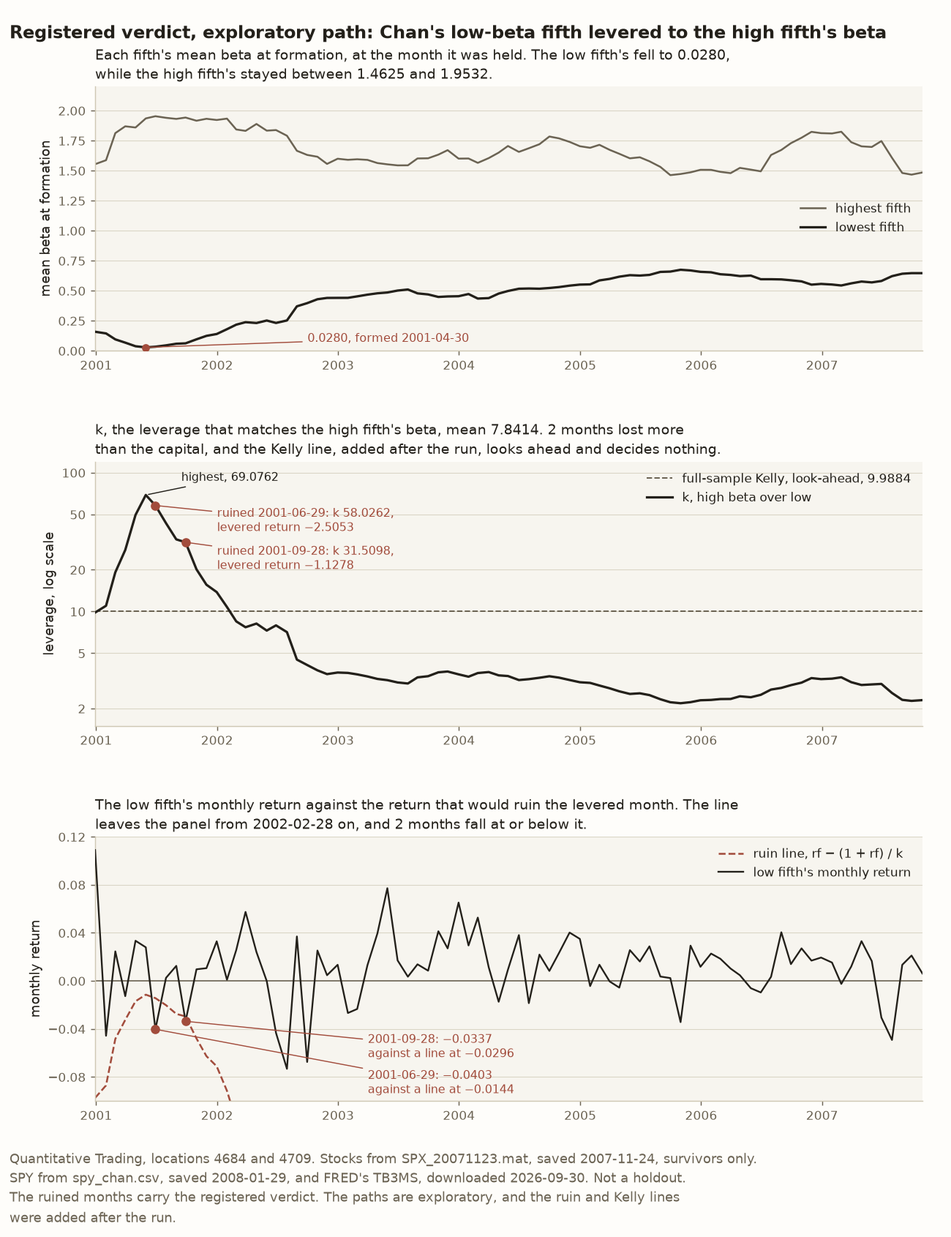
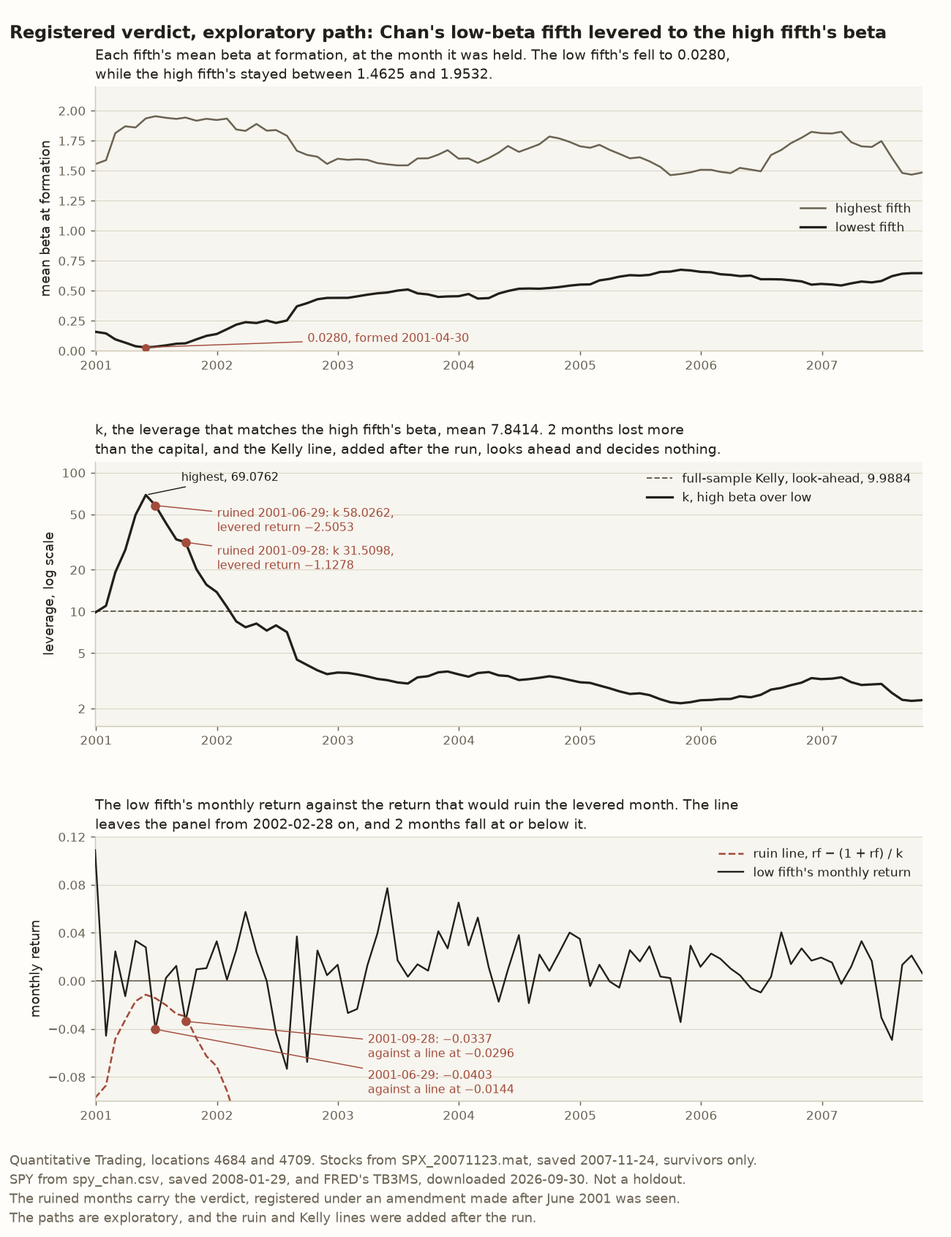
docs(blog): apply the review's fixes to the Entry 45 post
The review of PR 542 found these, and each survived a verifier.

- The caption and the figure's note name the ruin amendment beside
  "registered". The PNG is redrawn and the note's exact-string pin follows.
- The label paragraph, the test's opening line and Lesson 5's summary say
  who added the ruin outcome and that only it came after the plan.
- Lesson 6, its list item and habit 6 say "years the claim's source could
  already read" rather than "already studied".
- The Fama-French paraphrase keeps Chan's condition on size and book value
  and names the book-to-price ratio, in the post and the README block.
- September 2001's ruin is stated for a fresh stake, in the post, README
  Status 44 and Entry 45.
- Every figure the write-up measured after the run says so, in the active
  form. README Status 44 and Entry 45's lead-in separate the run's pins
  from the write-up's.
- The ruinous leverage is quoted as 23.2017 to four places, with the match
  at 2.50 times it, rather than as a threshold the printed value misses.
- The levered path's January and March losses, −0.5456 and −0.4516, and
  the low fifth's worst month, −0.0733 in July 2002, are stated and pinned.
- The alt text gives the leverage's 2002 path month by month.
- The post glosses formation, says why the match divides, names the low
  fifth before using it, names SPY's file once, bounds the ruin line to
  positive k, matches the equation's notation, and rewords four sentences
  that needed a second read.
[…]

Changed region(s): [[0.0, 0.9231, 0.7692, 1.0]]

diff --git a/tests/test_low_beta_leverage.py b/tests/test_low_beta_leverage.py
@@ -434,7 +434,9 @@ class TestWhatThePostMeasured:
         assert (len(below_10), below_10[0], below_10[-1]) == (9, "2001-01-31", "2001-09-28"), (
             f"{SPEC}; {AFTER_THE_RUN}"
         )
-        assert below_10 == dates(low.loc["2001-01-31":"2001-09-28"].index)
+        assert below_10 == dates(low.loc["2001-01-31":"2001-09-28"].index), (
+            f"{SPEC}; {AFTER_THE_RUN}"
+        )
 
     def test_k_above_20_and_above_the_look_ahead_kelly(self, portfolios: Portfolios) -> None:
         k = by_formation(portfolios, portfolios.leverage)
@@ -450,12 +452,20 @@ class TestWhatThePostMeasured:
             "2000-12-29",
             "2001-12-31",
         ), f"{SPEC}; {AFTER_THE_RUN}"
-        assert above_kelly == dates(k.loc["2000-12-29":"2001-12-31"].index)
+        assert above_kelly == dates(k.loc["2000-12-29":"2001-12-31"].index), (
+            f"{SPEC}; {AFTER_THE_RUN}"
+        )
 
     def test_the_levered_wealth_through_may_2001(self, portfolios: Portfolios) -> None:
-        """1 grew to 4.8089 by the end of May 2001, the month before the first ruin."""
+        """1 grew to 4.8089 by the end of May 2001, through levered losses in January and March."""
         wealth = levered_wealth(portfolios.levered)
         assert round(float(wealth.loc["2001-05-31"]), 4) == 4.8089, f"{SPEC}; {AFTER_THE_RUN}"
+        assert round(float(portfolios.levered.loc["2001-01-31"]), 4) == -0.5456, (
+            f"{SPEC}; {AFTER_THE_RUN}"
+        )
+        assert round(float(portfolios.levered.loc["2001-03-30"]), 4) == -0.4516, (
+            f"{SPEC}; {AFTER_THE_RUN}"
+        )
         assert portfolios.held_to[0] == pd.Timestamp("2000-12-29")
         assert wealth.loc["2001-07-31":].isna().all()
 
@@ -474,8 +484,17 @@ class TestWhatThePostMeasured:
         assert round(float(line.max()), 4) == -0.0115, f"{SPEC}; {AFTER_THE_RUN}"
         assert str(line.idxmax().date()) == "2001-05-31", f"{SPEC}; {AFTER_THE_RUN}"
         below = line < -0.10
-        assert str(line.index[below.to_numpy()][0].date()) == "2002-02-28", AFTER_THE_RUN
-        assert below.loc["2002-02-28":].all() and not below.loc[:"2002-01-31"].any()
+        assert str(line.index[below.to_numpy()][0].date()) == "2002-02-28", (
+            f"{SPEC}; {AFTER_THE_RUN}"
+        )
+        assert below.loc["2002-02-28":].all() and not below.loc[:"2002-01-31"].any(), (
+            f"{SPEC}; {AFTER_THE_RUN}"
+        )
+        low = portfolios.low
+        assert (round(float(low.min()), 4), str(low.idxmin().date())) == (-0.0733, "2002-07-31"), (
+            f"{SPEC}; {AFTER_THE_RUN}"
+        )
+        assert line.loc["2002-02-28":].max() < low.min(), f"{SPEC}; {AFTER_THE_RUN}"
 
     def test_the_line_finds_the_same_two_ruined_months(self, portfolios: Portfolios) -> None:
         line = ruin_line(portfolios.rf, portfolios.leverage)
@@ -500,7 +519,11 @@ class TestWhatThePostMeasured:
 
     def test_the_leverage_that_ruins_june_and_september(self, portfolios: Portfolios) -> None:
         needed = ruinous_leverage(portfolios.low, portfolios.rf)
-        assert round(float(needed.loc["2001-06-29"]), 4) == 23.2017, f"{SPEC}; {AFTER_THE_RUN}"
+        june = float(needed.loc["2001-06-29"])
+        assert round(june, 4) == 23.2017, f"{SPEC}; {AFTER_THE_RUN}"
+        assert 23.2017 < june < 23.2018, f"{SPEC}; {AFTER_THE_RUN}"
+        asked = float(portfolios.leverage.loc["2001-06-29"])
+        assert round(asked / june, 2) == 2.50, f"{SPEC}; {AFTER_THE_RUN}"
         assert round(float(needed.loc["2001-09-28"]), 4) == 27.9461, f"{SPEC}; {AFTER_THE_RUN}"
 
     def test_a_normal_month_as_bad_as_junes_line(self, portfolios: Portfolios) -> None:

diff --git a/tests/test_low_beta_leverage_figures.py b/tests/test_low_beta_leverage_figures.py
@@ -11,9 +11,9 @@ gives.
 
 The figure reads the vintages and the specification that
 ``tests/test_low_beta_leverage.py`` states in its module docstring and carries
-as its ``SPEC``. The ruined months carry Entry 45's registered verdict. Every
-path drawn is exploratory, and the ruin line and the Kelly line were added
-after the run.
+as its ``SPEC``. The ruined months carry Entry 45's verdict, registered under
+an amendment the owner made after June 2001 was seen. Every path drawn is
+exploratory, and the ruin line and the Kelly line were added after the run.
 """
 
 from __future__ import annotations
@@ -102,8 +102,8 @@ class TestTheFigure:
             "Quantitative Trading, locations 4684 and 4709. Stocks from SPX_20071123.mat, saved "
             "2007-11-24, survivors only.\nSPY from spy_chan.csv, saved 2008-01-29, and FRED's "
             "TB3MS, downloaded 2026-09-30. Not a holdout.\nThe ruined months carry the "
-            "registered verdict. The paths are exploratory, and the ruin and Kelly lines\nwere "
-            "added after the run."
+            "verdict, registered under an amendment made after June 2001 was seen.\nThe paths "
+            "are exploratory, and the ruin and Kelly lines were added after the run."
         ], SPEC
 
     def test_every_panel_spans_the_83_holding_months(self, axes) -> None:
@@ -232,8 +232,10 @@ class TestTheRuinLine:
         np.testing.assert_allclose(line.get_ydata(), rf - (1 + rf) / k, rtol=1e-12)
         assert (line.get_color(), line.get_linestyle()) == (LOST, "--")
 
-    def test_the_axis_runs_from_minus_0_10_to_0_12(self, axes) -> None:
+    def test_the_axis_runs_from_minus_0_10_to_0_12(self, axes, portfolios) -> None:
         assert RETURN_LIMITS == (-0.10, 0.12)
+        assert RETURN_LIMITS[0] < portfolios.low.min(), SPEC
+        assert portfolios.low.max() < RETURN_LIMITS[1], SPEC
         assert axes["ruin"].get_ylim() == pytest.approx(RETURN_LIMITS)
         assert axes["ruin"].yaxis.get_major_formatter()(-0.05, 0) == "−0.05"
 

diff --git a/src/chan/low_beta_leverage_figures.py b/src/chan/low_beta_leverage_figures.py
@@ -18,8 +18,9 @@ formed 2001-04-30, for example, sits at 2001-05-31.
    marked. The y-axis stops at :data:`RETURN_LIMITS`, so the line leaves the
    panel once it falls below the lower limit.
 
-The ruined months carry the registered verdict. Every path drawn is
-exploratory, and the ruin line and the Kelly line were added after the run.
+The ruined months carry the verdict, registered under an amendment the owner
+made after June 2001 was seen. Every path drawn is exploratory, and the ruin
+line and the Kelly line were added after the run.
 
 Every value comes from :func:`chan.low_beta_leverage.read_sources` and
 :func:`chan.low_beta_leverage.build_portfolios`, the run's own path::
@@ -253,8 +254,9 @@ def make_low_beta_leverage_figure(
         f"Quantitative Trading, locations 4684 and 4709. Stocks from {SOURCE_FILE}, saved "
         f"{members[0].obtained}, survivors only.\nSPY from {spy_entry.path}, saved "
         f"{spy_entry.obtained}, and FRED's TB3MS, downloaded {bill_entry.obtained}. "
-        "Not a holdout.\nThe ruined months carry the registered verdict. The paths are "
-        "exploratory, and the ruin and Kelly lines\nwere added after the run.",
+        "Not a holdout.\nThe ruined months carry the verdict, registered under an amendment "
+        "made after June 2001 was seen.\nThe paths are exploratory, and the ruin and Kelly "
+        "lines were added after the run.",
     )
     fig.subplots_adjust(left=0.1, right=0.97, top=0.93, bottom=0.11)
     return _save(fig, out, LOW_BETA_LEVERAGE_FIGURE)

diff --git a/blog/levered-low-beta-lessons.md b/blog/levered-low-beta-lessons.md
@@ -1,12 +1,12 @@
 # Chan’s levered low-beta portfolio lost more than its capital in June 2001, at the leverage his own beta match asked for
 
-*Chan argues that a low-beta portfolio, levered up to a high-beta portfolio’s beta, should out-compound the high-beta one. On his own S&P 500 file the low fifth had the higher Sharpe ratio. Its beta at formation fell close to zero in spring 2001, so the match asked for leverages as high as 69.0762, and an ordinary month took the levered portfolio below zero.*
+*Chan argues that a low-beta portfolio, levered up to a high-beta portfolio’s beta, should out-compound the high-beta one. On his own S&P 500 file the fifth of stocks with the lowest beta had the higher Sharpe ratio. Its mean beta fell close to zero in spring 2001, so the match asked for leverages as high as 69.0762, and an ordinary month took the levered portfolio below zero.*
 
 ## Why lever the low-beta stocks
 
 A stock’s **beta** measures how far it tends to move with the market. A stock with a beta of 2 tends to rise 2 percent on a day the market rises 1 percent, and a stock with a beta near 0 barely follows the market at all. **Leverage** is the position divided by the trader’s own capital. A leverage of 3 means \$3 of stock for every \$1 of capital, with the other \$2 borrowed, and here the borrowed part pays the three-month Treasury bill rate.
 
-Ernest Chan’s *Quantitative Trading* puts the two together. A trader can raise a portfolio’s return by levering it or by choosing high-beta stocks, and “it is easy to apply a higher leverage on the low-beta portfolio so as to increase its beta to match that of the high-beta portfolio” (Chan, 2021, location 4684). Under the Fama-French model, which ties a stock’s expected return to its beta, its size and its book value, the two portfolios then earn the same average return. Chan argues they are not equal, because “Empirical studies have found that a portfolio that consists of low-beta stocks generally has lower risk and thus a higher Sharpe ratio.” The **Sharpe ratio** is the return above the bill rate divided by the size of its swings. At the **Kelly leverage**, the leverage that makes wealth grow fastest, a portfolio compounds at the cash rate plus half its Sharpe ratio squared. The [post on the Kelly leverage on SPY](https://github.com/l3a0/quantitative-trading/blob/main/blog/kelly-leverage-on-spy.md#the-kelly-formula) derives that formula. So the side with the higher Sharpe ratio should compound faster once both are levered.
+Ernest Chan’s *Quantitative Trading* puts the two together. A trader can raise a portfolio’s return by levering it or by choosing high-beta stocks, and “it is easy to apply a higher leverage on the low-beta portfolio so as to increase its beta to match that of the high-beta portfolio” (Chan, 2021, location 4684). Under the Fama-French model, which ties a stock’s expected return to its beta, its size and its book-to-price ratio, the two portfolios then earn the same average return, provided their stocks have the same average size and book value. Chan argues a trader should still prefer the low-beta portfolio, because “Empirical studies have found that a portfolio that consists of low-beta stocks generally has lower risk and thus a higher Sharpe ratio.” The **Sharpe ratio** is the return above the bill rate divided by the size of its swings. At the **Kelly leverage**, the leverage that makes wealth grow fastest, a portfolio compounds at the cash rate plus half its Sharpe ratio squared. The [post on the Kelly leverage on SPY](https://github.com/l3a0/quantitative-trading/blob/main/blog/kelly-leverage-on-spy.md#the-kelly-formula) derives that formula. So at its Kelly leverage the side with the higher Sharpe ratio should out-compound the other side at any leverage, unlevered included.
 
 The same passage cites Edward Qian’s risk parity, which levers a low-risk mix of stocks and bonds for the same reason. The [post on risk parity against 60/40](https://github.com/l3a0/quantitative-trading/blob/main/blog/risk-parity-against-60-40.md#how-risk-parity-works) tests that half of the passage.
 
@@ -15,29 +15,29 @@ Chan’s chapter summary states the rule: “Holding a highly leveraged portfoli
 This repository tested the rule on Chan’s own S&P 500 file and drew six lessons.
 
 1. **The low fifth looked like the better portfolio, and the beta match ruined it.** Unlevered, its Sharpe ratio was more than twice the high fifth’s. Levered to the high fifth’s beta, it lost more than its capital in June 2001.
-2. **Matching beta divides by the low fifth’s beta.** In spring 2001 that beta was close to zero, so the leverage it asked for had no ceiling.
+2. **Matching beta divides by the low fifth’s beta.** In spring 2001 that beta was close to zero, so the leverage it asked for rose as high as 69.0762.
 3. **An ordinary month did it.** June 2001 was a bad month for the low fifth and not an extreme one. Chan’s caveat about leverage holds, while its reason, the fat tails, is not what the run shows.
 4. **The rule names no leverage.** The argument behind it assumes the Kelly leverage, and the test used the beta match.
-5. **Registering a criterion did not cover every case.** The plan never said what a month losing more than the capital means, and that was settled after the first one was seen.
-6. **A registered result on years already studied is not a holdout.** The file holds only survivors, and the years are ones the claim’s source could already read.
+5. **Registering a criterion did not cover every case.** The plan never said what a month losing more than the capital means, and the owner settled it after seeing the first one.
+6. **A registered result on years the claim’s source could already read is not a holdout.** The file also holds only stocks still in the index in late 2007.
 
-**The verdict is registered, and every other figure here is exploratory.** This is the first post in the series whose headline result is registered. Earlier posts opened by labelling their results exploratory, because reproducing a figure Chan printed spends the sample on a hypothesis he had already chosen. A registered result is one whose test and criterion were written down before any number was seen. Here the plan, the specification and the first three outcomes of the criterion were written down before any beta or return was computed. The fourth outcome, ruin, was added after the first ruined month was visible, so its wording is not registered, and Lesson 5 says what had been seen. Registration rules out a specification tuned on this file. It does not make 2000 to 2007 unseen data, as Lesson 6 explains. Every other figure is a point estimate that nothing tests, and each number this write-up measured after the run says so where it appears. The code is open source at [l3a0/quantitative-trading](https://github.com/l3a0/quantitative-trading).
+**The verdict is registered, and every other figure here is exploratory.** This is the first post in the series whose headline result is registered. Earlier posts that reproduced Chan’s figures labelled their results exploratory, because each reran a rule Chan had already chosen, on his own files. A registered result is one whose test and criterion were written down before any number was seen. Before any beta or return was computed, the plan wrote down the test’s specification, which is the five parts below, along with the first three outcomes of its criterion. The owner added the fourth outcome, ruin, after the first ruined month was visible, so its wording is not registered, and Lesson 5 says what had been seen. Registration rules out a specification tuned on this file. It does not make 2000 to 2007 unseen data, as Lesson 6 explains. Every other figure is a single measurement with no statistical test behind it, and each number this write-up measured after the run says so where it appears. The code is open source at [l3a0/quantitative-trading](https://github.com/l3a0/quantitative-trading).
 
 ## The test and the file
 
-The test has five parts, each fixed before any number was computed.
+The plan fixed the test’s five parts before the run computed any number. Only the ruin outcome in part 5 came later.
 
-1. **The data.** Chan’s `SPX_20071123.mat` holds 500 stocks, saved 2007-11-24, as the S&P 500 stood on 2007-11-23. A stock that left the index before then is not in the file, so every figure here is about survivors. SPY, the fund that tracks the index, comes from Chan’s `example6_2.xls`, saved 2008-01-29. The bill rate is FRED’s TB3MS, the monthly average three-month rate, downloaded 2026-09-30.
+1. **The data.** Chan’s `SPX_20071123.mat` holds 500 stocks, saved 2007-11-24, as the S&P 500 stood on 2007-11-23. A stock that left the index before then is not in the file, so every figure here is about survivors. SPY, the fund that tracks the index, comes from the adjusted closes in Chan’s `example6_2.xls`, saved 2008-01-29 and committed here as `spy_chan.csv`. The bill rate is FRED’s TB3MS, the monthly average three-month rate, downloaded 2026-09-30.
 2. **The beta.** The stock file is cut to the 2,011 days it shares with SPY. At each month-end a stock’s beta is the slope, with an intercept, of its daily return above the bill rate on SPY’s. The fit uses the 252 days ending there and needs at least 200 of them.
-3. **The two portfolios.** The lowest fifth and the highest fifth of the stocks by beta hold 88 to 99 stocks each, from 444 to 495 eligible. Each is weighted equally and held one month, which gives 83 holding months, December 2000 to October 2007.
-4. **The leverage.** At each month-end, k is the high fifth’s mean beta divided by the low fifth’s. That is location 4684’s match, and it is known before the month it applies to. A levered month returns rf + k × (r_low − rf), where r_low is the low fifth’s return and rf the bill rate for the month. Borrowing costs the bill rate, and no trading cost is charged.
+3. **The two portfolios.** Each month-end where the test sorts the stocks by beta is a **formation**. The lowest fifth and the highest fifth hold 88 to 99 stocks each, from 444 to 495 eligible. Each is weighted equally and held one month, which gives 83 holding months, December 2000 to October 2007.
+4. **The leverage.** At each month-end, k is the high fifth’s mean beta divided by the low fifth’s. Levering a portfolio k times multiplies its beta by k, so this k lifts the low fifth’s beta to the high fifth’s. That is location 4684’s match, and it is known before the month it applies to. A levered month returns rf + k × (r_low − rf), where r_low is the low fifth’s return and rf the bill rate for the month. Borrowing costs the bill rate, and no trading cost is charged.
 5. **The criterion.** The statistic compares the two portfolios’ monthly log growth. A **t-statistic** divides the average monthly gap by how far that average would typically wander by chance, and the Newey-West version allows for neighbouring months moving together. The [post on factor models](https://github.com/l3a0/quantitative-trading/blob/main/blog/factor-models-lessons.md#lesson-3-the-momentum-the-strategy-assumes-held-for-the-market-factor-and-not-the-momentum-factor-and-for-four-of-example-74s-own-five-factors) uses the same statistic. The claim holds when the gap favours the levered low fifth with a t of at least 1.645, the one-sided 5 percent line, and is contradicted when the high fifth leads with a t of −1.645 or below. Anything between is not decided. The fourth outcome, added later, is ruin: a levered month at −1 or below means the claim is contradicted.
 
 A levered month at −1 has lost the whole capital, and one below −1 has lost more. The log growth of such a month does not exist, so the statistic cannot be computed once one occurs. The [replication log’s Entry 45](https://github.com/l3a0/quantitative-trading/blob/main/docs/replication-log.md#entry-45-a-levered-low-beta-portfolio-against-an-unlevered-high-beta-one-chans-quantitative-trading) records every rule and sets each figure beside the test that computes it.
 
 ## Lesson 1: the low fifth looked like the better portfolio, and the beta match ruined it
 
-The verdict is **contradicted by ruin**. Levered to the high fifth’s beta, the low fifth lost more than its capital in the month ending 2001-06-29, at a leverage of 58.0262, and again in September 2001.
+The verdict is **contradicted by ruin**. Levered to the high fifth’s beta, the low fifth lost more than its capital in the month ending 2001-06-29, at a leverage of 58.0262. A fresh stake levered by the same rule would have lost more than its capital again in September 2001.
 
 Unlevered, the low fifth did look like the better portfolio. Realised compounded growth is twelve times the average monthly log return, the rate a portfolio actually compounded at.
 
@@ -51,15 +51,15 @@ Unlevered, the low fifth did look like the better portfolio. Realised compounded
 \end{array}
 ```
 
-Every one of those figures rests on survivors, and nothing tests the differences between them, so none decides anything. The levered row’s Sharpe ratio reads each month as if it were funded afresh at its start, which is how the plan defines the series. It is not what an investor ruined in June 2001 held.
+Every one of those figures rests on survivors, and nothing tests the differences between them, so none decides anything. The levered row’s Sharpe ratio reads each month as if it were funded afresh at its start, which is how the plan defines the series. An investor ruined in June 2001 had no capital left to fund the months after it.
 
-The levered path began well. From December 2000 through May 2001 it compounded to 4.8089 times its capital, a figure the write-up measured after the run. May 2001 alone returned 1.7253, at the highest leverage of the run, 69.0762, on a low-fifth month of 0.0279. Then June returned −2.5053 at a leverage of 58.0262, and September −1.1278 at 31.5098. No t was computed, because the ruin ends the comparison, so nothing says what the statistic would have read without it.
+The levered path swung hard on the way up. It lost 0.5456 of its capital in January 2001 and 0.4516 in March, and still compounded to 4.8089 times its capital from December 2000 through May 2001. May 2001 alone returned 1.7253, at the highest leverage of the run, 69.0762, on a low-fifth month of 0.0279. The write-up measured all of those figures after the run except the 69.0762. Then June returned −2.5053 at a leverage of 58.0262, and a fresh stake in September −1.1278 at 31.5098. No t was computed, because the ruin ends the comparison, so nothing says what the statistic would have read without it.
 
 ## Lesson 2: matching beta divides by the low fifth’s beta, and in spring 2001 that beta was close to zero
 
 The leverage is a ratio, and its denominator is the low fifth’s mean beta. When that beta approaches zero, the leverage has no ceiling. Over the 83 formations the low fifth’s mean beta ranged from 0.0280 to 0.6745, while the high fifth’s stayed between 1.4625 and 1.9532. The numerator moved within a narrow band, so the denominator set the leverage.
 
-Both formations in 2000 sat near 0.15, at 0.1582 on 2000-11-30 and 0.1443 on 2000-12-29. Then the low fifth’s beta fell below 0.10 at nine formations, 2001-01-31 to 2001-09-28, and below 0.05 at four of them. Those counts were measured by the write-up after the run.
+Both formations in 2000 sat near 0.15, at 0.1582 on 2000-11-30 and 0.1443 on 2000-12-29. Then the low fifth’s beta fell below 0.10 at nine formations, 2001-01-31 to 2001-09-28, and below 0.05 at four of them. The write-up measured those counts after the run, along with the 0.1443 and the table’s 0.0375 and 0.0448.
 
 ```math
 \begin{array}{l|r}
@@ -71,16 +71,16 @@ Both formations in 2000 sat near 0.15, at 0.1582 on 2000-11-30 and 0.1443 on 200
 \end{array}
 ```
 
-So k averaged 7.8414 over the run and ranged from 2.1826 to 69.0762. It sat above 20 at eight formations, 2001-02-28 to 2001-09-28, also measured after the run. The highest, 69.0762, was formed on 2001-04-30 and applied in May. The 58.0262 that ruined June was formed on 2001-05-31.
+So k averaged 7.8414 over the run and ranged from 2.1826 to 69.0762. It sat above 20 at eight formations, 2001-02-28 to 2001-09-28, a count the write-up also measured after the run. The highest, 69.0762, was formed on 2001-04-30 and applied in May. The 58.0262 that ruined June was formed on 2001-05-31.
 
 After the fact the match overshot its own target. The levered low fifth’s realised beta, its slope on SPY’s monthly return above the bill rate, came to 3.4596, against the high fifth’s 2.0671. That reading also treats each month as freshly funded.
 
 ## Lesson 3: an ordinary month did it, so the caveat’s advice holds and its reason is not what the run shows
 
-A levered month is ruined when its return reaches −1. Solving for the low fifth’s return gives the **ruin line**, the return at or below which the levered month loses the whole capital.
+A levered month is ruined when its return reaches −1. Solving for the low fifth’s return, with k positive as it is in every month here, gives the **ruin line**, the return at or below which the levered month loses the whole capital.
 
 ```math
-r_f + k\,(r - r_f) \le -1 \quad\Longleftrightarrow\quad r \le r_f - \frac{1 + r_f}{k}
+r_f + k\,(r_\text{low} - r_f) \le -1 \quad\Longleftrightarrow\quad r_\text{low} \le r_f - \frac{1 + r_f}{k}
 ```
 
 The write-up computed the line after the run. In June 2001 the bill rate for the month was 0.0029 and k was 58.0262, so the line sat at −0.0144. A low-fifth month of −1.44 percent was enough to wipe out the levered portfolio. The low fifth returned −0.0403 that month.
@@ -93,23 +93,23 @@ The write-up computed the line after the run. In June 2001 the bill rate for the
 \end{array}
 ```
 
-Neither month was extreme. June was the sixth-worst of the low fifth’s 83 months and September the eighth-worst. The last column, measured after the run, is the smallest leverage that would have ruined each month. Any leverage from 23.2017 up would have ruined June.
+Neither month was extreme. June was the sixth-worst of the low fifth’s 83 months and September the eighth-worst. The write-up measured September’s −0.0337 and its rank after the run, along with the last column, the smallest leverage that would have ruined each month. The match asked June for 58.0262, 2.50 times its ruinous leverage of 23.2017 to four places.
 
-The rest of the history says the same. Of the 83 months, 13 fell at or below June’s line of −0.0144, so holding June’s leverage of 58.0262 in every month would have ruined 13 of them. A bell curve with the low fifth’s own monthly mean of 0.0109 and standard deviation of 0.0292 puts the chance of a month that bad at 0.1931, about one month in five. Both figures were measured after the run. No fat tail was needed. A month a bell curve expects regularly was enough at that leverage.
+The rest of the history says the same. Of the 83 months, 13 fell at or below June’s line of −0.0144, so holding June’s leverage of 58.0262 in every month would have ruined 13 of them. A bell curve with the low fifth’s own monthly mean of 0.0109 and standard deviation of 0.0292 puts the chance of a month at or below that line at 0.1931, about one month in five. The write-up measured all of these figures after the run. No fat tail was needed. A month a bell curve expects regularly was enough at that leverage.
 
-The line was closest to zero in May 2001, at −0.0115, the month the leverage peaked. Once the leverage fell, the line fell far below any month the low fifth had. From 2002-02-28 on it sat below −0.10.
+The line was closest to zero in May 2001, at −0.0115, the month the leverage peaked. Once the leverage dropped, the line sank below the low fifth’s worst month. From 2002-02-28 on it sat below −0.10, while the low fifth’s worst month, July 2002, returned −0.0733, another figure the write-up measured after the run.
 
-![Three charts sharing one axis of holding months from December 2000 to October 2007. The top chart shows each fifth’s mean beta at formation. A muted grey line, the highest fifth, stays between about 1.5 and 2 throughout. A black line, the lowest fifth, starts near 0.15, falls almost to zero in the first half of 2001, with a red dot labelled 0.0280, formed 2001-04-30, then climbs to between 0.4 and 0.7 from late 2002 on. The middle chart shows the leverage on a log scale. A black line climbs from about 10 to a peak labelled highest, 69.0762, in May 2001, then falls below 10 by early 2002 and stays between 2 and 5 after that. Two red dots mark the ruined months, June 2001 at k 58.0262 with a levered return of −2.5053, and September 2001 at k 31.5098 with a levered return of −1.1278. A dashed grey line at 9.9884 is labelled full-sample Kelly, look-ahead. The bottom chart shows the low fifth’s monthly return in black, swinging mostly between −0.05 and 0.08, against a dashed red ruin line that rises from −0.10 to about −0.01 in spring 2001 and then drops out of the bottom of the chart in early 2002. Two red dots mark the months the return fell below the line, June 2001 at −0.0403 against −0.0144 and September 2001 at −0.0337 against −0.0296. The title reads registered verdict, exploratory path.](../docs/figures/low_beta_leverage.png)
+![Three charts sharing one axis of holding months from December 2000 to October 2007. The top chart shows each fifth’s mean beta at formation. A muted grey line, the highest fifth, stays between about 1.5 and 2 throughout. A black line, the lowest fifth, starts near 0.15, falls almost to zero in the first half of 2001, with a red dot labelled 0.0280, formed 2001-04-30, then climbs to between 0.4 and 0.7 from late 2002 on. The middle chart shows the leverage on a log scale. A black line climbs from about 10 to a peak labelled highest, 69.0762, in May 2001, then falls below 10 in February 2002, sits between 7 and 9 until July 2002, and stays between 2 and 5 from August 2002 on. Two red dots mark the ruined months, June 2001 at k 58.0262 with a levered return of −2.5053, and September 2001 at k 31.5098 with a levered return of −1.1278. A dashed grey line at 9.9884 is labelled full-sample Kelly, look-ahead. The bottom chart shows the low fifth’s monthly return in black, swinging mostly between −0.05 and 0.08, against a dashed red ruin line that rises from −0.10 to about −0.01 in spring 2001 and then drops out of the bottom of the chart in early 2002. Two red dots mark the months the return fell below the line, June 2001 at −0.0403 against −0.0144 and September 2001 at −0.0337 against −0.0296. The title reads registered verdict, exploratory path.](../docs/figures/low_beta_leverage.png)
 
-*Each value sits at the month it applied to, so the beta and the leverage formed on 2001-04-30 appear at May 2001. The two ruined months carry the registered verdict. Every path drawn is exploratory, and the ruin line and the Kelly line were added after the run. The Kelly line looks ahead and decides nothing.*
+*Each value sits at the month it applied to, so the beta and the leverage formed on 2001-04-30 appear at May 2001. The ruined months carry the verdict, registered under an amendment made after June 2001 was seen. Every path drawn is exploratory, and the ruin line and the Kelly line were added after the run. The Kelly line looks ahead and decides nothing.*
 
-Chan’s caveat at location 4700 warns against “too much leverage on normally low-beta stocks” because returns have fat tails. Its advice is borne out. Its reason is not what this run shows, since an ordinary month did the damage. What the run does not measure is how much each cause contributed. The near-zero betas set the leverage, and the return that met it was only a bad month. Which of the two did more damage is not something this test can separate.
+Chan’s caveat at location 4700 warns against “too much leverage on normally low-beta stocks” because returns have fat tails. Its advice is borne out. Its reason is not what this run shows. The near-zero betas set the leverage, and the return that met it was only a bad month. Which of the two did more damage is not something this test can separate.
 
 ## Lesson 4: the rule names no leverage, and the argument behind it assumes Kelly’s
 
-Location 4709 says “highly leveraged” and names no number. Location 4684 names two leverages. One is the beta match, which the passage proposes. The other is the Kelly leverage, which its growth argument rests on. The plan tested the beta match, the leverage the passage spells out, which is known before the month it applies to.
+Location 4709 says “highly leveraged” and names no number. Location 4684 names the beta match, which the passage proposes, and the Kelly leverage, which its growth argument rests on. The plan tested the beta match, the leverage the passage spells out, which is known before the month it applies to.
 
-The Kelly reading needs the whole sample, so it looks ahead and decides nothing. The low fifth’s full-sample Kelly leverage is 9.9884. At that leverage the formula’s growth is the bill rate plus half the Sharpe ratio squared, 0.0283 + 0.5132 = 0.5415 a year, against the high fifth’s realised 0.1183. That comparison is built to favour the low fifth, because at its own in-sample Kelly leverage any portfolio’s formula growth is at least its unlevered growth. No portfolio realised the 0.5415.
+The Kelly reading needs the whole sample, so it looks ahead and decides nothing. The low fifth’s full-sample Kelly leverage is 9.9884. At that leverage the formula’s growth is the bill rate plus half the Sharpe ratio squared, 0.0283 + 0.5132 = 0.5415 a year, against the high fifth’s realised 0.1183. That comparison is built to favour the low fifth. In-sample Kelly leverage gives a portfolio the highest growth the formula allows, so the low fifth gets its best case while the high fifth stays unlevered. The 0.5415 is also the formula’s figure, and no portfolio realised it.
 
 The beta match asked for more than that look-ahead Kelly leverage at 13 formations, all between 2000-12-29 and 2001-12-31, a count the write-up measured after the run. Overshooting the Kelly leverage is costly even when returns follow a bell curve. The [post on the Kelly leverage on SPY](https://github.com/l3a0/quantitative-trading/blob/main/blog/kelly-leverage-on-spy.md#lesson-6-twice-the-kelly-leverage-earns-only-the-cash-rate) shows that twice the Kelly leverage earns only the cash rate, and that growth falls below zero not far past it.
 
@@ -126,7 +126,7 @@ The repository’s owner then ruled that ruin means the claim is contradicted. B
 
 So the ruin case and its wording are not registered. The hypothesis, the specification and the first three outcomes stay registered, because they were written before any of that was seen. The verdict follows from a rule written after its first instance was seen. The [post on factor models](https://github.com/l3a0/quantitative-trading/blob/main/blog/factor-models-lessons.md#lesson-5-fix-the-rule-before-the-number) explains why the order of a rule and its number decides what a verdict can claim.
 
-## Lesson 6: a registered result on years already studied is not a holdout
+## Lesson 6: a registered result on years the claim’s source could already read is not a holdout
 
 A **holdout** is data kept back from every decision about a test, so a result on it is a fresh check. Registration stops this repository from tuning the specification to this file. It does nothing about which years the file covers. Chan’s premise comes from “empirical studies” of past prices, and 2000 to 2007 were past prices by the time the book printed the claim. So this test checks the rule on years its source could already have read.
 
@@ -153,7 +153,7 @@ One habit for each lesson.
 3. **Compute the loss that ruins at the leverage asked for, and count how often the history reaches it.** Here 13 of 83 months did.
 4. **Ask which leverage a claim means.** A rule that says “highly leveraged” leaves the number to the reader, and the argument behind it may assume a different one.
 5. **Write down what the criterion does in every case, ruin included.** A case the plan leaves open gets settled after it is seen.
-6. **Treat years the source already studied as spent.** A result on them can contradict a claim, and a confirmation needs later data.
+6. **Treat years the source could already read as spent.** A result on them can contradict a claim, and a confirmation needs later data.
 
 ## References
 

diff --git a/README.md b/README.md
@@ -620,7 +620,8 @@ where they were first built. The other forty-two were built here.
     contradicted by ruin. The low fifth's beta at formation fell as low as
     0.0280, so the match asked for a leverage of up to 69.0762, and the levered
     portfolio lost more than its capital in the month ending 2001-06-29, at a
-    leverage of 58.0262, and again in September 2001. Location 4700 warns of
+    leverage of 58.0262. A fresh stake levered by the same rule would have
+    lost more than its capital again in September 2001. Location 4700 warns of
     this: "one should be quite wary of using too much leverage on normally
     low-beta stocks". The verdict is registered, because the plan and its
     criterion were written on
@@ -630,10 +631,10 @@ where they were first built. The other forty-two were built here.
     ruined month was visible. The span is not a holdout, and every figure is
     about the stocks still in the index on 2007-11-23. Beside the verdict, the
     low fifth's Sharpe ratio of 1.0132 against the high fifth's 0.4457 is an
-    untested point estimate, exploratory, and decides nothing. Measured after
-    the run, the low fifth's return in June 2001 was −0.0403, below a ruin
-    line of −0.0144 and the sixth-worst of its 83 months, so an ordinary month
-    did the damage.
+    untested point estimate, exploratory, and decides nothing. The low fifth's
+    return in June 2001 was −0.0403, the sixth-worst of its 83 months.
+    Measured after the run, that sat below a ruin line of −0.0144, so an
+    ordinary month did the damage.
 
 Two more results run here, and neither is a replication. The first comes from
 the same passage, which names bonds of one issuer as a place a stationary
@@ -1139,9 +1140,10 @@ holding month, the ruin threshold, the 1.645 threshold and the detectable
 gap's formula. It holds what the write-up measured after the run too: the
 formations whose low-fifth beta fell below 0.05 and 0.10, the formations whose
 leverage passed 20 and the look-ahead Kelly leverage, the levered wealth
-before the first ruin, the ruin line and the leverage that ruins each month,
-and the chance a normal month reaches June 2001's line, with the three
-helpers behind them on synthetic months. The blog post about it is the
+before the first ruin and the two levered losses on the way, the ruin line,
+the low fifth's worst month, the leverage that ruins each month, and the
+chance a normal month reaches June 2001's line, with the three helpers
+behind them on synthetic months. The blog post about it is the
 exception, and what it says that nothing here asserts is listed below.
 
 All forty-four replications reach a verdict in
@@ -5269,8 +5271,8 @@ and draws six lessons from Entry 45 of the replication log.
    not what the run shows.
 4. The rule names no leverage, and the look-ahead Kelly leverage of 9.9884
    sat below the match at 13 formations.
-5. The plan left the ruined month undefined, and the ruin case was settled
-   after its first instance was seen.
+5. The plan left the ruined month undefined, and the owner settled the ruin
+   case after seeing its first instance.
 6. A registered result on years the claim's source could already read is
    not a holdout, and the file holds only survivors.
 
@@ -5286,12 +5288,15 @@ Five groups of what it says are not pinned here.
    that the build stopped at June 2001, and the four things seen before the
    ruin ruling. Entry 45 of the replication log records each.
 3. Readings no test asserts: that the Fama-French model ties return to beta,
-   size and book value, that growth at the Kelly leverage is the cash rate
-   plus half the Sharpe ratio squared, which the Kelly post derives, that the
-   low fifth's 1.0132 and 0.4457 make the low fifth look better, that the
-   numerator of k moved within a narrow band, that 2000 to 2007 were past
-   prices when the book printed the claim, and that high-beta stocks leaving
-   the index would flatter the high side, which is a hypothesis.
+   size and book-to-price ratio, that growth at the Kelly leverage is the
+   cash rate plus half the Sharpe ratio squared, which the Kelly post
+   derives, that in-sample Kelly leverage gives a portfolio the highest
+   growth the formula allows, that levering a portfolio k times multiplies
+   its beta by k, that the low fifth's 1.0132 and 0.4457 make the low fifth
+   look better, that the numerator of k moved within a narrow band, that
+   2000 to 2007 were past prices when the book printed the claim, and that
+   high-beta stocks leaving the index would flatter the high side, which is
+   a hypothesis.
 4. Figures the post states in words or rounds from pinned ones, such as
    more than twice the high fifth's Sharpe ratio, both 2000 formations near
    0.15, −1.44 percent for the line of −0.0144, and about one month in five
@@ -5311,15 +5316,18 @@ had no pin before it, all measured after the run.
    2001-06-29, and below 0.10 at nine, 2001-01-31 to 2001-09-28.
 2. k above 20 at eight formations, 2001-02-28 to 2001-09-28, and above the
    look-ahead Kelly leverage of 9.9884 at 13, 2000-12-29 to 2001-12-31.
-3. The levered wealth of 4.8089 through 2001-05-31, and May 2001's levered
+3. The levered wealth of 4.8089 through 2001-05-31, after levered returns of
+   −0.5456 in January 2001 and −0.4516 in March, and May 2001's levered
    return of 1.7253 on a low-fifth return of 0.0279.
 4. The ruin line at −0.0144 for June 2001, with that month's bill rate of
    0.0029, and at −0.0296 for September 2001. Its highest value is −0.0115,
-   in May 2001, and it sits below −0.10 from 2002-02-28 on.
+   in May 2001, and it sits below −0.10 from 2002-02-28 on, below the low
+   fifth's worst month, −0.0733 in July 2002.
 5. The low fifth's September 2001 return of −0.0337, the eighth-worst of 83.
 6. The 13 of 83 months at or below June's line, which holding k at 58.0262
    every month would also ruin.
-7. The leverage that ruins June 2001, 23.2017, and September 2001, 27.9461.
+7. The leverage that ruins June 2001, 23.2017, and September 2001, 27.9461,
+   and the match's 58.0262 for June at 2.50 times the first.
 8. The low fifth's monthly mean of 0.0109 and standard deviation of 0.0292,
    and the normal chance of 0.1931 of a month at or below June's line.
 

diff --git a/docs/replication-log.md b/docs/replication-log.md
@@ -9555,13 +9555,15 @@ columns have nothing to hold in any row and are dropped, under
 
 ### What the entry concludes
 
-Three things, and the first is the verdict. The third was measured by the
-write-up after the run, and `TestWhatThePostMeasured` in
-[tests/test_low_beta_leverage.py](../tests/test_low_beta_leverage.py) pins it.
+Three things, and the first is the verdict. The third adds figures the
+write-up measured after the run, which `TestWhatThePostMeasured` in
+[tests/test_low_beta_leverage.py](../tests/test_low_beta_leverage.py) pins.
+The run itself pinned June 2001's −0.0403 and its rank.
 
 1. **Location 4684's beta match ruins the levered portfolio on this file.**
    Levered to the high fifth's beta, the low fifth lost more than its capital
-   in June 2001 and again in September 2001. That is the amendment's
+   in June 2001, and a fresh stake levered by the same rule would have lost
+   more than its capital again in September 2001. That is the amendment's
    Contradicted by ruin, and it maps to `did not reproduce`.
 2. **The rule, read at location 4684's beta match, does not hold, and the
    leverage is what breaks it.** The match asks for a leverage of up to
@@ -9576,9 +9578,9 @@ write-up after the run, and `TestWhatThePostMeasured` in
    2001 the line sat at −0.0296 against a return of −0.0337, the
    eighth-worst. Of the 83 months, 13 fell at or below June's line, and a
    normal distribution with the low fifth's monthly mean of 0.0109 and
-   standard deviation of 0.0292 gives 0.1931 for a month that bad. Any
-   leverage from 23.2017 up would have ruined June, and from 27.9461 up
-   September. So location 4700's advice against too much leverage holds,
+   standard deviation of 0.0292 gives 0.1931 for a month at or below that
+   line. The smallest leverage that ruins June is 23.2017 to four places, and
+   for September 27.9461. So location 4700's advice against too much leverage holds,
    while its reason, the fat tails, is not what the run shows. The low
    fifth's beta at formation was below 0.05 at four formations, 2001-03-30
    to 2001-06-29, and k was above 20 at eight, 2001-02-28 to 2001-09-28.
